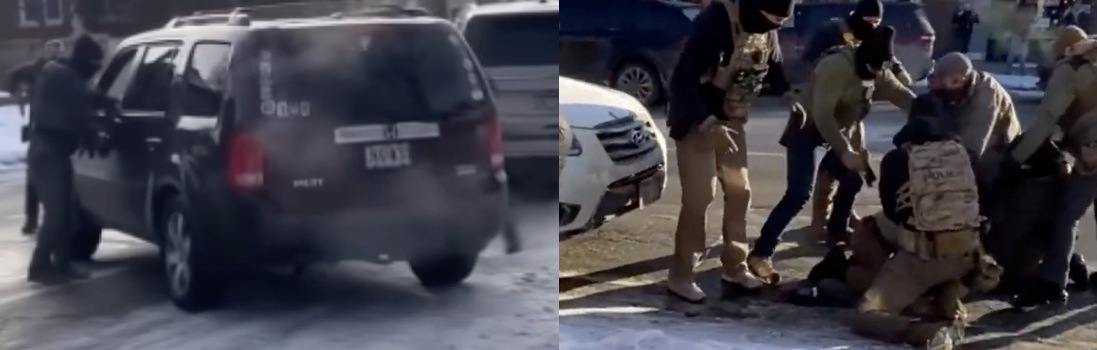
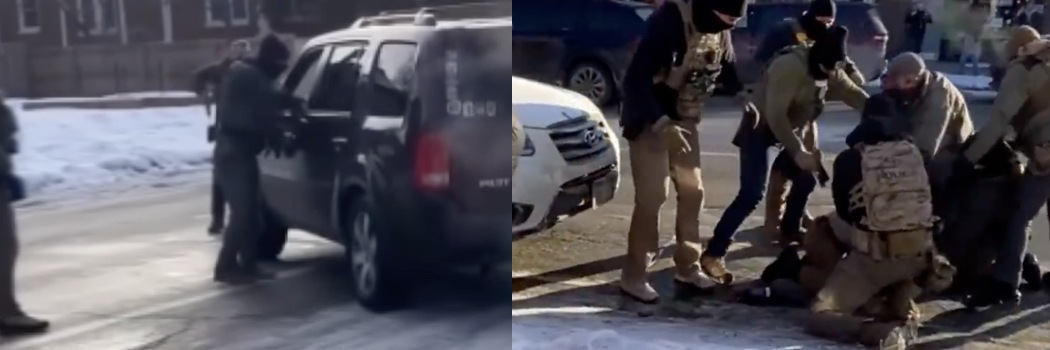
Recrop Renee image to center armed officer; add Let My People Vote image to Section III

diff --git a/index.md b/index.md
@@ -58,6 +58,8 @@ And we should be clear-eyed about what comes after certification. The administra
 
 The dissolution of midterm results is the Rubicon we must not cross. If the administration successfully interferes with the election and faces no consequences, or if it loses but refuses to accept the results, the constitutional order is over. We will not vote our way out of what follows.
 
+![Let My People Vote](let_my_people_vote.jpg)
+
 Protection of the midterms must be our highest priority. Everything else, every other issue, is secondary to preserving the mechanism by which power can be transferred and accountability restored.
 
 ---
